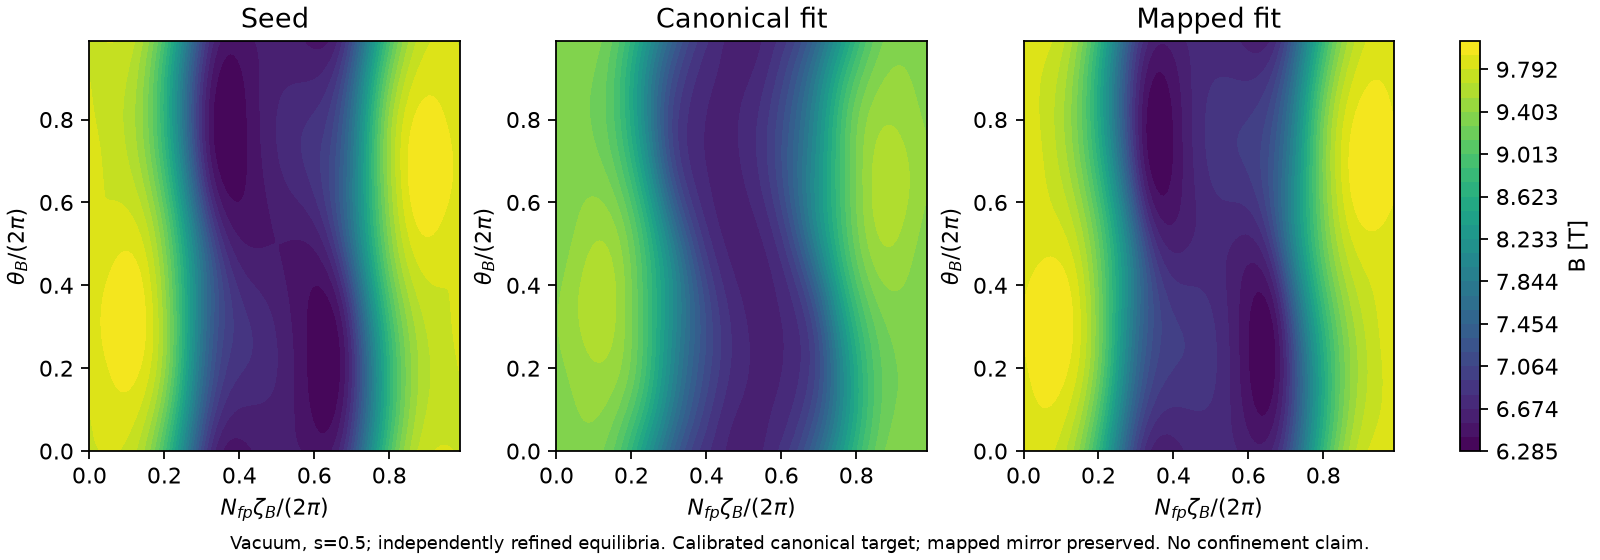
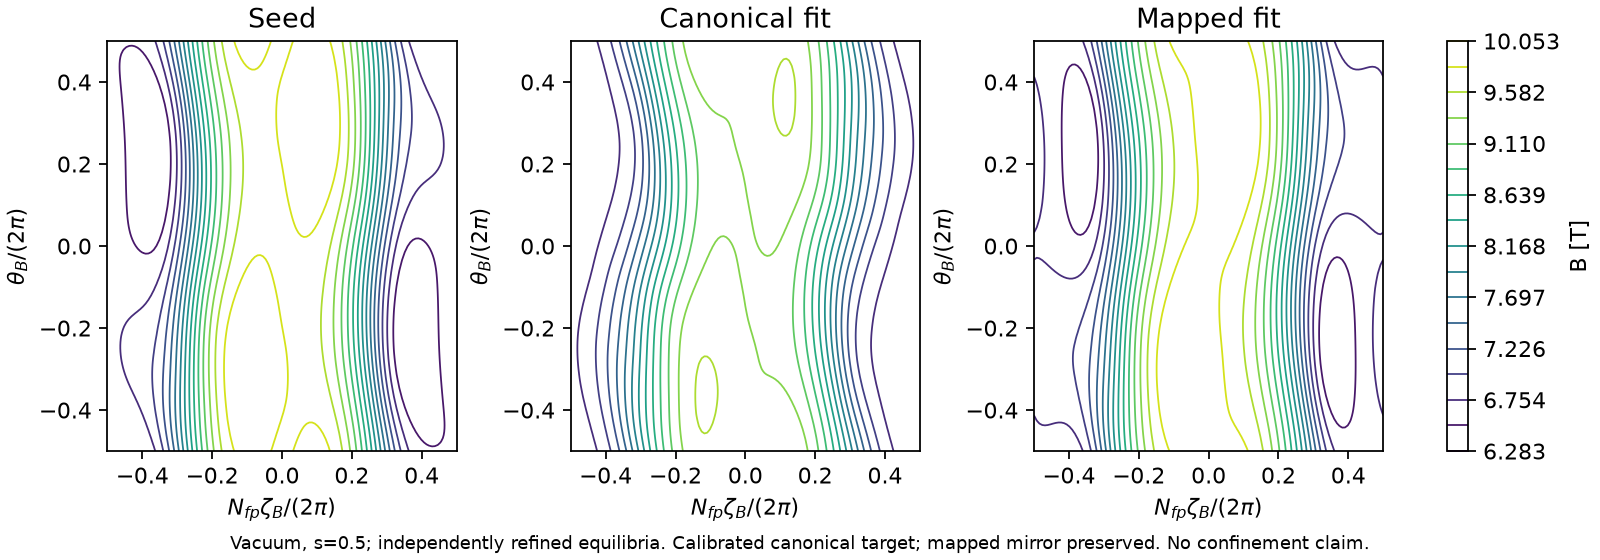
Show unfilled contours and qualify QI-like development fields

diff --git a/docs/_static/figures/sources/make_pwo_figure.py b/docs/_static/figures/sources/make_pwo_figure.py
@@ -1,8 +1,4 @@
-"""Render measured development fields from benchmarks/pwo_development.json.
-
-Run from the repository root: python docs/_static/figures/sources/make_pwo_figure.py
-This reconstructs stored spectra; it does not rerun the equilibrium optimization.
-"""
+"""Reconstruct unfilled measured contours from the committed benchmark spectra."""
 
 import json
 from pathlib import Path
@@ -22,7 +18,7 @@ def main():
     spectra = [cases["canonical-vacuum"]["spectra"]["seed"],
                cases["canonical-vacuum"]["spectra"]["final"],
                cases["mapped-vacuum"]["spectra"]["final"]]
-    angle = 2 * np.pi * np.arange(96) / 96
+    angle = np.linspace(-np.pi, np.pi, 129)
     fields = []
     for spectrum in spectra:
         theta, zeta = np.meshgrid(angle, angle / spectrum["nfp"], indexing="ij")
@@ -30,11 +26,11 @@ def main():
                  - zeta[..., None] * np.asarray(spectrum["xn_b"]))
         fields.append(np.cos(phase) @ np.asarray(spectrum["bmnc_b"])[0]
                       + np.sin(phase) @ np.asarray(spectrum["bmns_b"])[0])
-    levels = np.linspace(np.min(fields), np.max(fields), 30)
+    levels = np.linspace(np.min(fields), np.max(fields), 17)
     fig, axes = plt.subplots(1, 3, figsize=(10, 3.5), layout="constrained")
     for ax, field, title in zip(axes, fields, ["Seed", "Canonical fit", "Mapped fit"]):
-        image = ax.contourf(angle / (2*np.pi), angle / (2*np.pi), field,
-                            levels=levels, cmap="viridis")
+        image = ax.contour(angle / (2*np.pi), angle / (2*np.pi), field,
+                            levels=levels, cmap="viridis", linewidths=0.8)
         ax.set(xlabel=r"$N_{fp}\zeta_B/(2\pi)$", ylabel=r"$\theta_B/(2\pi)$", title=title)
     fig.colorbar(image, ax=list(axes), label="B [T]")
     fig.supxlabel("Vacuum, s=0.5; independently refined equilibria. "

diff --git a/docs/explanation/piecewise-omnigenity.md b/docs/explanation/piecewise-omnigenity.md
@@ -208,6 +208,11 @@ This is one matched setting, without a canonical convergence sweep. Its 19.4%
 mirror reduction also prevents attributing the change solely to improved pwO
 structure. Neither this result nor the mapped comparison establishes alpha retention.
 
+The measured plots use unfilled contours in a centered periodic cell so that
+closed extrema and wrapping contours remain visible. The current development
+fits retain predominantly poloidally wrapping structure rather than the target
+parallelogram. Reduced fit error alone must not be labeled a distinct pwO result.
+
 Full derivative and resolution qualification, family-resolved actions,
 transport and particle retention remain separate gates. The shared-host wall
 times in the record are observations, not a controlled speed comparison.

diff --git a/README.md b/README.md
@@ -373,6 +373,8 @@ The canonical vacuum mirror falls 19.4%; the mapped fit preserves it within 0.1%
 Despite its better fit, the mapped vacuum candidate has a 2.84–3.35 times worse
 independent effective-ripple proxy at the finest tested settings. Neither target
 fit certifies bounce-action invariance, transport, alpha retention or coil feasibility.
+The unfilled contours below remain predominantly QI-like; a distinct pwO region
+has not been established.
 [Measured records](benchmarks/pwo_development.json) retain controls, source hashes,
 final input decks and the spectra used below. Run the examples with:
 
